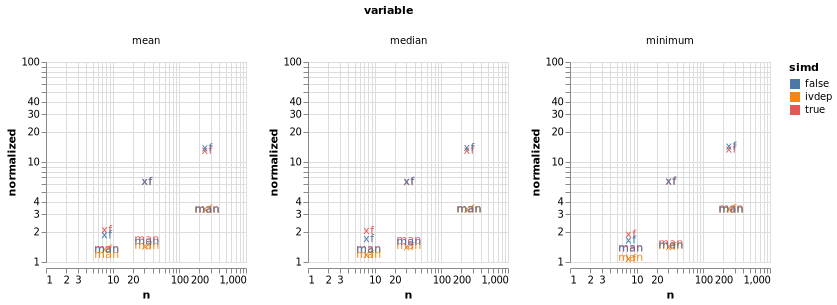
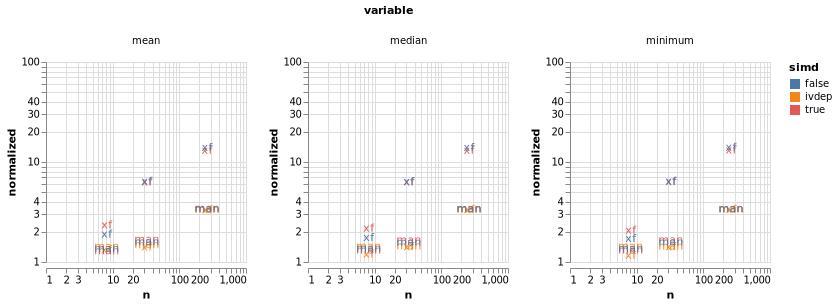
build based on b6bbf65

diff --git a/v0.2.2/search_index.js b/v0.2.2/search_index.js
@@ -1,3 +1,3 @@
 var documenterSearchIndex = {"docs":
-[{"location":"#TransducersBenchmarksReports.jl-1","page":"Home","title":"TransducersBenchmarksReports.jl","text":"","category":"section"},{"location":"#","page":"Home","title":"Home","text":"","category":"page"},{"location":"generated/results/#Benchmark-Report-for-*/home/travis/.julia/packages/Transducers/g26ar*-1","page":"Results","title":"Benchmark Report for /home/travis/.julia/packages/Transducers/g26ar","text":"","category":"section"},{"location":"generated/results/#Job-Properties-1","page":"Results","title":"Job Properties","text":"","category":"section"},{"location":"generated/results/#","page":"Results","title":"Results","text":"Time of benchmark: 13 Jul 2019 - 23:50\nPackage commit: non gi\nJulia commit: 55e36c\nJulia command flags: None\nEnvironment variables: OMP_NUM_THREADS => 1 JULIA_NUM_THREADS => 1","category":"page"},{"location":"generated/results/#Results-1","page":"Results","title":"Results","text":"","category":"section"},{"location":"generated/results/#","page":"Results","title":"Results","text":"Below is a table of this job's results, obtained by running the benchmarks. The values listed in the ID column have the structure [parent_group, child_group, ..., key], and can be used to index into the BaseBenchmarks suite to retrieve the corresponding benchmarks. The percentages accompanying time and memory values in the below table are noise tolerances. The \"true\" time/memory value for a given benchmark is expected to fall within this percentage of the reported value. An empty cell means that the value was zero.","category":"page"},{"location":"generated/results/#","page":"Results","title":"Results","text":"ID time GC time memory allocations\n[\"dot\", \"blas\"] 2.116 μs (5%)   \n[\"dot\", \"man\"] 2.171 μs (5%)   \n[\"dot\", \"rf\"] 2.149 μs (5%)   \n[\"dot\", \"xf\"] 2.078 μs (5%)   \n[\"filter_map_map!\", \"man\"] 67.598 μs (5%)   \n[\"filter_map_map!\", \"xf\"] 76.066 μs (5%)  144 bytes (1%) 8\n[\"filter_map_reduce\", \"man\"] 240.571 μs (5%)   \n[\"filter_map_reduce\", \"xf\"] 244.720 μs (5%)   \n[\"gemm\", \"linalg\", \"256\"] 1.136 ms (5%)   \n[\"gemm\", \"linalg\", \"32\"] 4.837 μs (5%)   \n[\"gemm\", \"linalg\", \"8\"] 347.090 ns (5%)   \n[\"gemm\", \"man\", \"false\", \"256\"] 3.820 ms (5%)   \n[\"gemm\", \"man\", \"false\", \"32\"] 7.098 μs (5%)   \n[\"gemm\", \"man\", \"false\", \"8\"] 479.046 ns (5%)   \n[\"gemm\", \"man\", \"ivdep\", \"256\"] 3.768 ms (5%)   \n[\"gemm\", \"man\", \"ivdep\", \"32\"] 6.980 μs (5%)   \n[\"gemm\", \"man\", \"ivdep\", \"8\"] 382.824 ns (5%)   \n[\"gemm\", \"man\", \"true\", \"256\"] 3.912 ms (5%)   \n[\"gemm\", \"man\", \"true\", \"32\"] 7.443 μs (5%)   \n[\"gemm\", \"man\", \"true\", \"8\"] 470.311 ns (5%)   \n[\"gemm\", \"xf\", \"false\", \"256\"] 16.201 ms (5%)  48 bytes (1%) 2\n[\"gemm\", \"xf\", \"false\", \"32\"] 30.893 μs (5%)  48 bytes (1%) 2\n[\"gemm\", \"xf\", \"false\", \"8\"] 568.780 ns (5%)  48 bytes (1%) 2\n[\"gemm\", \"xf\", \"ivdep\", \"256\"] 3.844 ms (5%)  48 bytes (1%) 2\n[\"gemm\", \"xf\", \"ivdep\", \"32\"] 6.796 μs (5%)  48 bytes (1%) 2\n[\"gemm\", \"xf\", \"ivdep\", \"8\"] 370.190 ns (5%)  48 bytes (1%) 2\n[\"gemm\", \"xf\", \"true\", \"256\"] 15.116 ms (5%)  48 bytes (1%) 2\n[\"gemm\", \"xf\", \"true\", \"32\"] 30.556 μs (5%)  48 bytes (1%) 2\n[\"gemm\", \"xf\", \"true\", \"8\"] 651.125 ns (5%)  48 bytes (1%) 2\n[\"missing_argmax\", \"man\"] 1.328 μs (5%)  32 bytes (1%) 1\n[\"missing_argmax\", \"rf\"] 1.466 μs (5%)  32 bytes (1%) 1\n[\"missing_argmax\", \"xf\"] 1.377 μs (5%)  32 bytes (1%) 1\n[\"missing_dot\", \"equiv\"] 1.573 μs (5%)  16 bytes (1%) 1\n[\"missing_dot\", \"man\"] 1.454 μs (5%)  16 bytes (1%) 1\n[\"missing_dot\", \"naive\"] 5.255 μs (5%)  16 bytes (1%) 1\n[\"missing_dot\", \"rf\"] 1.449 μs (5%)  16 bytes (1%) 1\n[\"missing_dot\", \"rf_nota\"] 1.611 μs (5%)  16 bytes (1%) 1\n[\"missing_dot\", \"xf\"] 216.335 μs (5%)  73.95 KiB (1%) 3858\n[\"missing_dot\", \"xf_nota\"] 223.498 μs (5%)  74.09 KiB (1%) 3864\n[\"partition_by\", \"man\"] 2.098 ms (5%)  352 bytes (1%) 4\n[\"partition_by\", \"xf\"] 2.022 ms (5%)  512 bytes (1%) 8","category":"page"},{"location":"generated/results/#Benchmark-Group-List-1","page":"Results","title":"Benchmark Group List","text":"","category":"section"},{"location":"generated/results/#","page":"Results","title":"Results","text":"Here's a list of all the benchmark groups executed by this job:","category":"page"},{"location":"generated/results/#","page":"Results","title":"Results","text":"[\"dot\"]\n[\"filter_map_map!\"]\n[\"filter_map_reduce\"]\n[\"gemm\", \"linalg\"]\n[\"gemm\", \"man\", \"false\"]\n[\"gemm\", \"man\", \"ivdep\"]\n[\"gemm\", \"man\", \"true\"]\n[\"gemm\", \"xf\", \"false\"]\n[\"gemm\", \"xf\", \"ivdep\"]\n[\"gemm\", \"xf\", \"true\"]\n[\"missing_argmax\"]\n[\"missing_dot\"]\n[\"partition_by\"]","category":"page"},{"location":"generated/results/#Julia-versioninfo-1","page":"Results","title":"Julia versioninfo","text":"","category":"section"},{"location":"generated/results/#","page":"Results","title":"Results","text":"Julia Version 1.1.1\nCommit 55e36cc308 (2019-05-16 04:10 UTC)\nPlatform Info:\n  OS: Linux (x86_64-pc-linux-gnu)\n      Ubuntu 16.04.6 LTS\n  uname: Linux 4.15.0-1028-gcp #29~16.04.1-Ubuntu SMP Tue Feb 12 16:31:10 UTC 2019 x86_64 x86_64\n  CPU: Intel(R) Xeon(R) CPU @ 2.30GHz: \n              speed         user         nice          sys         idle          irq\n       #1  2300 MHz      24920 s          0 s       1581 s      19570 s          0 s\n       #2  2300 MHz      20387 s          0 s       1475 s      24585 s          0 s\n       \n  Memory: 7.297847747802734 GB (5275.19140625 MB free)\n  Uptime: 473.0 sec\n  Load Avg:  1.0  0.861328125  0.46337890625\n  WORD_SIZE: 64\n  LIBM: libopenlibm\n  LLVM: libLLVM-6.0.1 (ORCJIT, haswell)","category":"page"},{"location":"gemm/#bench_gemm.jl-result-1","page":"GEMM","title":"bench_gemm.jl result","text":"","category":"section"},{"location":"gemm/#","page":"GEMM","title":"GEMM","text":"Base.include(@__MODULE__, \"../reporters/gemm.jl\")\nopen(io -> show(io, \"image/png\", plt), \"gemm.png\", \"w\")","category":"page"},{"location":"gemm/#","page":"GEMM","title":"GEMM","text":"(Image: )","category":"page"}]
+[{"location":"#TransducersBenchmarksReports.jl-1","page":"Home","title":"TransducersBenchmarksReports.jl","text":"","category":"section"},{"location":"#","page":"Home","title":"Home","text":"","category":"page"},{"location":"generated/results/#Benchmark-Report-for-*/home/travis/.julia/packages/Transducers/g26ar*-1","page":"Results","title":"Benchmark Report for /home/travis/.julia/packages/Transducers/g26ar","text":"","category":"section"},{"location":"generated/results/#Job-Properties-1","page":"Results","title":"Job Properties","text":"","category":"section"},{"location":"generated/results/#","page":"Results","title":"Results","text":"Time of benchmark: 14 Jul 2019 - 0:43\nPackage commit: non gi\nJulia commit: 55e36c\nJulia command flags: None\nEnvironment variables: OMP_NUM_THREADS => 1 JULIA_NUM_THREADS => 1","category":"page"},{"location":"generated/results/#Results-1","page":"Results","title":"Results","text":"","category":"section"},{"location":"generated/results/#","page":"Results","title":"Results","text":"Below is a table of this job's results, obtained by running the benchmarks. The values listed in the ID column have the structure [parent_group, child_group, ..., key], and can be used to index into the BaseBenchmarks suite to retrieve the corresponding benchmarks. The percentages accompanying time and memory values in the below table are noise tolerances. The \"true\" time/memory value for a given benchmark is expected to fall within this percentage of the reported value. An empty cell means that the value was zero.","category":"page"},{"location":"generated/results/#","page":"Results","title":"Results","text":"ID time GC time memory allocations\n[\"dot\", \"blas\"] 2.254 μs (5%)   \n[\"dot\", \"man\"] 2.192 μs (5%)   \n[\"dot\", \"rf\"] 2.135 μs (5%)   \n[\"dot\", \"xf\"] 2.155 μs (5%)   \n[\"filter_map_map!\", \"man\"] 76.388 μs (5%)   \n[\"filter_map_map!\", \"xf\"] 77.126 μs (5%)  144 bytes (1%) 8\n[\"filter_map_reduce\", \"man\"] 266.095 μs (5%)   \n[\"filter_map_reduce\", \"xf\"] 266.008 μs (5%)   \n[\"gemm\", \"linalg\", \"256\"] 1.177 ms (5%)   \n[\"gemm\", \"linalg\", \"32\"] 5.036 μs (5%)   \n[\"gemm\", \"linalg\", \"8\"] 353.608 ns (5%)   \n[\"gemm\", \"man\", \"false\", \"256\"] 3.977 ms (5%)   \n[\"gemm\", \"man\", \"false\", \"32\"] 7.893 μs (5%)   \n[\"gemm\", \"man\", \"false\", \"8\"] 479.015 ns (5%)   \n[\"gemm\", \"man\", \"ivdep\", \"256\"] 3.944 ms (5%)   \n[\"gemm\", \"man\", \"ivdep\", \"32\"] 7.176 μs (5%)   \n[\"gemm\", \"man\", \"ivdep\", \"8\"] 503.041 ns (5%)   \n[\"gemm\", \"man\", \"true\", \"256\"] 3.979 ms (5%)   \n[\"gemm\", \"man\", \"true\", \"32\"] 8.301 μs (5%)   \n[\"gemm\", \"man\", \"true\", \"8\"] 460.396 ns (5%)   \n[\"gemm\", \"xf\", \"false\", \"256\"] 16.345 ms (5%)  48 bytes (1%) 2\n[\"gemm\", \"xf\", \"false\", \"32\"] 31.998 μs (5%)  48 bytes (1%) 2\n[\"gemm\", \"xf\", \"false\", \"8\"] 601.270 ns (5%)  48 bytes (1%) 2\n[\"gemm\", \"xf\", \"ivdep\", \"256\"] 3.906 ms (5%)  48 bytes (1%) 2\n[\"gemm\", \"xf\", \"ivdep\", \"32\"] 7.068 μs (5%)  48 bytes (1%) 2\n[\"gemm\", \"xf\", \"ivdep\", \"8\"] 407.830 ns (5%)  48 bytes (1%) 2\n[\"gemm\", \"xf\", \"true\", \"256\"] 15.340 ms (5%)  48 bytes (1%) 2\n[\"gemm\", \"xf\", \"true\", \"32\"] 31.648 μs (5%)  48 bytes (1%) 2\n[\"gemm\", \"xf\", \"true\", \"8\"] 726.346 ns (5%)  48 bytes (1%) 2\n[\"missing_argmax\", \"man\"] 1.369 μs (5%)  32 bytes (1%) 1\n[\"missing_argmax\", \"rf\"] 1.539 μs (5%)  32 bytes (1%) 1\n[\"missing_argmax\", \"xf\"] 1.544 μs (5%)  32 bytes (1%) 1\n[\"missing_dot\", \"equiv\"] 1.645 μs (5%)  16 bytes (1%) 1\n[\"missing_dot\", \"man\"] 1.488 μs (5%)  16 bytes (1%) 1\n[\"missing_dot\", \"naive\"] 5.237 μs (5%)  16 bytes (1%) 1\n[\"missing_dot\", \"rf\"] 1.499 μs (5%)  16 bytes (1%) 1\n[\"missing_dot\", \"rf_nota\"] 1.599 μs (5%)  16 bytes (1%) 1\n[\"missing_dot\", \"xf\"] 228.533 μs (5%)  74.03 KiB (1%) 3864\n[\"missing_dot\", \"xf_nota\"] 231.077 μs (5%)  74.13 KiB (1%) 3866\n[\"partition_by\", \"man\"] 2.217 ms (5%)  352 bytes (1%) 4\n[\"partition_by\", \"xf\"] 2.056 ms (5%)  512 bytes (1%) 8","category":"page"},{"location":"generated/results/#Benchmark-Group-List-1","page":"Results","title":"Benchmark Group List","text":"","category":"section"},{"location":"generated/results/#","page":"Results","title":"Results","text":"Here's a list of all the benchmark groups executed by this job:","category":"page"},{"location":"generated/results/#","page":"Results","title":"Results","text":"[\"dot\"]\n[\"filter_map_map!\"]\n[\"filter_map_reduce\"]\n[\"gemm\", \"linalg\"]\n[\"gemm\", \"man\", \"false\"]\n[\"gemm\", \"man\", \"ivdep\"]\n[\"gemm\", \"man\", \"true\"]\n[\"gemm\", \"xf\", \"false\"]\n[\"gemm\", \"xf\", \"ivdep\"]\n[\"gemm\", \"xf\", \"true\"]\n[\"missing_argmax\"]\n[\"missing_dot\"]\n[\"partition_by\"]","category":"page"},{"location":"generated/results/#Julia-versioninfo-1","page":"Results","title":"Julia versioninfo","text":"","category":"section"},{"location":"generated/results/#","page":"Results","title":"Results","text":"Julia Version 1.1.1\nCommit 55e36cc308 (2019-05-16 04:10 UTC)\nPlatform Info:\n  OS: Linux (x86_64-pc-linux-gnu)\n      Ubuntu 16.04.6 LTS\n  uname: Linux 4.15.0-1028-gcp #29~16.04.1-Ubuntu SMP Tue Feb 12 16:31:10 UTC 2019 x86_64 x86_64\n  CPU: Intel(R) Xeon(R) CPU @ 2.30GHz: \n              speed         user         nice          sys         idle          irq\n       #1  2300 MHz      21790 s          0 s       1596 s      23232 s          0 s\n       #2  2300 MHz      23428 s          0 s       1283 s      22397 s          0 s\n       \n  Memory: 7.297840118408203 GB (5281.31640625 MB free)\n  Uptime: 478.0 sec\n  Load Avg:  1.02490234375  0.89404296875  0.48046875\n  WORD_SIZE: 64\n  LIBM: libopenlibm\n  LLVM: libLLVM-6.0.1 (ORCJIT, haswell)","category":"page"},{"location":"gemm/#bench_gemm.jl-result-1","page":"GEMM","title":"bench_gemm.jl result","text":"","category":"section"},{"location":"gemm/#","page":"GEMM","title":"GEMM","text":"Base.include(@__MODULE__, \"../reporters/gemm.jl\")\nopen(io -> show(io, \"image/png\", plt), \"gemm.png\", \"w\")","category":"page"},{"location":"gemm/#","page":"GEMM","title":"GEMM","text":"(Image: )","category":"page"},{"location":"gemm/#Transducers-vs-manual-implementation-1","page":"GEMM","title":"Transducers vs manual implementation","text":"","category":"section"},{"location":"gemm/#","page":"GEMM","title":"GEMM","text":"using BenchmarkTools\nusing PkgBenchmark: benchmarkgroup, export_markdown\nusing TransducersBenchmarksReports: loadresult\nusing Setfield: @set\nusing Markdown\n\nresults = loadresult()\ngroup = benchmarkgroup(results)[\"gemm\"]\nresults_xf = @set results.benchmarkgroup = group[\"xf\"]\nresults_man = @set results.benchmarkgroup = group[\"man\"]\n\nlet md = sprint(export_markdown, judge(results_xf, results_man))\n    md = replace(md, \":x:\" => \"❌\")\n    md = replace(md, \":white_check_mark:\" => \"✅\")\n    Markdown.parse(md)\nend","category":"page"}]
 }

diff --git a/v0.2.2/gemm/index.html b/v0.2.2/gemm/index.html
@@ -1,2 +1,34 @@
 <!DOCTYPE html>
-<html lang="en"><head><meta charset="UTF-8"/><meta name="viewport" content="width=device-width, initial-scale=1.0"/><title>GEMM · TransducersBenchmarksReports.jl</title><link href="https://cdnjs.cloudflare.com/ajax/libs/normalize/4.2.0/normalize.min.css" rel="stylesheet" type="text/css"/><link href="https://fonts.googleapis.com/css?family=Lato|Roboto+Mono" rel="stylesheet" type="text/css"/><link href="https://cdnjs.cloudflare.com/ajax/libs/font-awesome/4.6.3/css/font-awesome.min.css" rel="stylesheet" type="text/css"/><link href="https://cdnjs.cloudflare.com/ajax/libs/highlight.js/9.12.0/styles/default.min.css" rel="stylesheet" type="text/css"/><script>documenterBaseURL=".."</script><script src="https://cdnjs.cloudflare.com/ajax/libs/require.js/2.2.0/require.min.js" data-main="../assets/documenter.js"></script><script src="../siteinfo.js"></script><script src="../../versions.js"></script><link href="../assets/documenter.css" rel="stylesheet" type="text/css"/></head><body><nav class="toc"><h1>TransducersBenchmarksReports.jl</h1><select id="version-selector" onChange="window.location.href=this.value" style="visibility: hidden"></select><form class="search" id="search-form" action="../search/"><input id="search-query" name="q" type="text" placeholder="Search docs"/></form><ul><li><a class="toctext" href="../">Home</a></li><li><a class="toctext" href="../generated/results/">Results</a></li><li class="current"><a class="toctext" href>GEMM</a><ul class="internal"></ul></li></ul></nav><article id="docs"><header><nav><ul><li><a href>GEMM</a></li></ul><a class="edit-page" href="https://github.com/tkf/TransducersBenchmarksReports.jl/blob/master/docs/src/gemm.md#L"><span class="fa"></span> Edit on GitHub</a></nav><hr/><div id="topbar"><span>GEMM</span><a class="fa fa-bars" href="#"></a></div></header><h1><a class="nav-anchor" id="bench_gemm.jl-result-1" href="#bench_gemm.jl-result-1"><code>bench_gemm.jl</code> result</a></h1><p><img src="/gemm.png" alt/></p><footer><hr/><a class="previous" href="../generated/results/"><span class="direction">Previous</span><span class="title">Results</span></a></footer></article></body></html>
+<html lang="en"><head><meta charset="UTF-8"/><meta name="viewport" content="width=device-width, initial-scale=1.0"/><title>GEMM · TransducersBenchmarksReports.jl</title><link href="https://cdnjs.cloudflare.com/ajax/libs/normalize/4.2.0/normalize.min.css" rel="stylesheet" type="text/css"/><link href="https://fonts.googleapis.com/css?family=Lato|Roboto+Mono" rel="stylesheet" type="text/css"/><link href="https://cdnjs.cloudflare.com/ajax/libs/font-awesome/4.6.3/css/font-awesome.min.css" rel="stylesheet" type="text/css"/><link href="https://cdnjs.cloudflare.com/ajax/libs/highlight.js/9.12.0/styles/default.min.css" rel="stylesheet" type="text/css"/><script>documenterBaseURL=".."</script><script src="https://cdnjs.cloudflare.com/ajax/libs/require.js/2.2.0/require.min.js" data-main="../assets/documenter.js"></script><script src="../siteinfo.js"></script><script src="../../versions.js"></script><link href="../assets/documenter.css" rel="stylesheet" type="text/css"/></head><body><nav class="toc"><h1>TransducersBenchmarksReports.jl</h1><select id="version-selector" onChange="window.location.href=this.value" style="visibility: hidden"></select><form class="search" id="search-form" action="../search/"><input id="search-query" name="q" type="text" placeholder="Search docs"/></form><ul><li><a class="toctext" href="../">Home</a></li><li><a class="toctext" href="../generated/results/">Results</a></li><li class="current"><a class="toctext" href>GEMM</a><ul class="internal"><li><a class="toctext" href="#Transducers-vs-manual-implementation-1">Transducers vs manual implementation</a></li></ul></li></ul></nav><article id="docs"><header><nav><ul><li><a href>GEMM</a></li></ul><a class="edit-page" href="https://github.com/tkf/TransducersBenchmarksReports.jl/blob/master/docs/src/gemm.md#L"><span class="fa"></span> Edit on GitHub</a></nav><hr/><div id="topbar"><span>GEMM</span><a class="fa fa-bars" href="#"></a></div></header><h1><a class="nav-anchor" id="bench_gemm.jl-result-1" href="#bench_gemm.jl-result-1"><code>bench_gemm.jl</code> result</a></h1><p><img src="../gemm.png" alt/></p><h2><a class="nav-anchor" id="Transducers-vs-manual-implementation-1" href="#Transducers-vs-manual-implementation-1">Transducers vs manual implementation</a></h2><div><h1>Benchmark Report for <em>/home/travis/.julia/packages/Transducers/g26ar</em></h1><h2>Job Properties</h2><ul><li>Time of benchmarks:<ul><li>Target: 14 Jul 2019 - 00:43</li><li>Baseline: 14 Jul 2019 - 00:43</li></ul></li><li>Package commits:<ul><li>Target: non gi</li><li>Baseline: non gi</li></ul></li><li>Julia commits:<ul><li>Target: 55e36c</li><li>Baseline: 55e36c</li></ul></li><li>Julia command flags:<ul><li>Target: None</li><li>Baseline: None</li></ul></li><li>Environment variables:<ul><li>Target: <code>OMP_NUM_THREADS =&gt; 1</code> <code>JULIA_NUM_THREADS =&gt; 1</code></li><li>Baseline: <code>OMP_NUM_THREADS =&gt; 1</code> <code>JULIA_NUM_THREADS =&gt; 1</code></li></ul></li></ul><h2>Results</h2><p>A ratio greater than <code>1.0</code> denotes a possible regression (marked with ❌), while a ratio less than <code>1.0</code> denotes a possible improvement (marked with ✅). Only significant results - results that indicate possible regressions or improvements - are shown below (thus, an empty table means that all benchmark results remained invariant between builds).</p><table><tr><th style="text-align: right">ID</th><th style="text-align: right">time ratio</th><th style="text-align: right">memory ratio</th></tr><tr><td style="text-align: right"><code>[&quot;false&quot;, &quot;256&quot;]</code></td><td style="text-align: right">4.11 (5%) ❌</td><td style="text-align: right">Inf (1%) ❌</td></tr><tr><td style="text-align: right"><code>[&quot;false&quot;, &quot;32&quot;]</code></td><td style="text-align: right">4.05 (5%) ❌</td><td style="text-align: right">Inf (1%) ❌</td></tr><tr><td style="text-align: right"><code>[&quot;false&quot;, &quot;8&quot;]</code></td><td style="text-align: right">1.26 (5%) ❌</td><td style="text-align: right">Inf (1%) ❌</td></tr><tr><td style="text-align: right"><code>[&quot;ivdep&quot;, &quot;256&quot;]</code></td><td style="text-align: right">0.99 (5%)</td><td style="text-align: right">Inf (1%) ❌</td></tr><tr><td style="text-align: right"><code>[&quot;ivdep&quot;, &quot;32&quot;]</code></td><td style="text-align: right">0.99 (5%)</td><td style="text-align: right">Inf (1%) ❌</td></tr><tr><td style="text-align: right"><code>[&quot;ivdep&quot;, &quot;8&quot;]</code></td><td style="text-align: right">0.81 (5%) ✅</td><td style="text-align: right">Inf (1%) ❌</td></tr><tr><td style="text-align: right"><code>[&quot;true&quot;, &quot;256&quot;]</code></td><td style="text-align: right">3.85 (5%) ❌</td><td style="text-align: right">Inf (1%) ❌</td></tr><tr><td style="text-align: right"><code>[&quot;true&quot;, &quot;32&quot;]</code></td><td style="text-align: right">3.81 (5%) ❌</td><td style="text-align: right">Inf (1%) ❌</td></tr><tr><td style="text-align: right"><code>[&quot;true&quot;, &quot;8&quot;]</code></td><td style="text-align: right">1.58 (5%) ❌</td><td style="text-align: right">Inf (1%) ❌</td></tr></table><h2>Benchmark Group List</h2><p>Here&#39;s a list of all the benchmark groups executed by this job:</p><ul><li><code>[&quot;false&quot;]</code></li><li><code>[&quot;ivdep&quot;]</code></li><li><code>[&quot;true&quot;]</code></li></ul><h2>Julia versioninfo</h2><h3>Target</h3><pre><code class="language-none">Julia Version 1.1.1
+Commit 55e36cc308 (2019-05-16 04:10 UTC)
+Platform Info:
+  OS: Linux (x86_64-pc-linux-gnu)
+      Ubuntu 16.04.6 LTS
+  uname: Linux 4.15.0-1028-gcp #29~16.04.1-Ubuntu SMP Tue Feb 12 16:31:10 UTC 2019 x86_64 x86_64
+  CPU: Intel(R) Xeon(R) CPU @ 2.30GHz: 
+              speed         user         nice          sys         idle          irq
+       #1  2300 MHz      21790 s          0 s       1596 s      23232 s          0 s
+       #2  2300 MHz      23428 s          0 s       1283 s      22397 s          0 s
+       
+  Memory: 7.297840118408203 GB (5281.31640625 MB free)
+  Uptime: 478.0 sec
+  Load Avg:  1.02490234375  0.89404296875  0.48046875
+  WORD_SIZE: 64
+  LIBM: libopenlibm
+  LLVM: libLLVM-6.0.1 (ORCJIT, haswell)</code></pre><h3>Baseline</h3><pre><code class="language-none">Julia Version 1.1.1
+Commit 55e36cc308 (2019-05-16 04:10 UTC)
+Platform Info:
+  OS: Linux (x86_64-pc-linux-gnu)
+      Ubuntu 16.04.6 LTS
+  uname: Linux 4.15.0-1028-gcp #29~16.04.1-Ubuntu SMP Tue Feb 12 16:31:10 UTC 2019 x86_64 x86_64
+  CPU: Intel(R) Xeon(R) CPU @ 2.30GHz: 
+              speed         user         nice          sys         idle          irq
+       #1  2300 MHz      21790 s          0 s       1596 s      23232 s          0 s
+       #2  2300 MHz      23428 s          0 s       1283 s      22397 s          0 s
+       
+  Memory: 7.297840118408203 GB (5281.31640625 MB free)
+  Uptime: 478.0 sec
+  Load Avg:  1.02490234375  0.89404296875  0.48046875
+  WORD_SIZE: 64
+  LIBM: libopenlibm
+  LLVM: libLLVM-6.0.1 (ORCJIT, haswell)</code></pre></div><footer><hr/><a class="previous" href="../generated/results/"><span class="direction">Previous</span><span class="title">Results</span></a></footer></article></body></html>

diff --git a/v0.2.2/index.html b/v0.2.2/index.html
@@ -1,2 +1,2 @@
 <!DOCTYPE html>
-<html lang="en"><head><meta charset="UTF-8"/><meta name="viewport" content="width=device-width, initial-scale=1.0"/><title>Home · TransducersBenchmarksReports.jl</title><link href="https://cdnjs.cloudflare.com/ajax/libs/normalize/4.2.0/normalize.min.css" rel="stylesheet" type="text/css"/><link href="https://fonts.googleapis.com/css?family=Lato|Roboto+Mono" rel="stylesheet" type="text/css"/><link href="https://cdnjs.cloudflare.com/ajax/libs/font-awesome/4.6.3/css/font-awesome.min.css" rel="stylesheet" type="text/css"/><link href="https://cdnjs.cloudflare.com/ajax/libs/highlight.js/9.12.0/styles/default.min.css" rel="stylesheet" type="text/css"/><script>documenterBaseURL="."</script><script src="https://cdnjs.cloudflare.com/ajax/libs/require.js/2.2.0/require.min.js" data-main="assets/documenter.js"></script><script src="siteinfo.js"></script><script src="../versions.js"></script><link href="assets/documenter.css" rel="stylesheet" type="text/css"/></head><body><nav class="toc"><h1>TransducersBenchmarksReports.jl</h1><select id="version-selector" onChange="window.location.href=this.value" style="visibility: hidden"></select><form class="search" id="search-form" action="search/"><input id="search-query" name="q" type="text" placeholder="Search docs"/></form><ul><li class="current"><a class="toctext" href>Home</a><ul class="internal"></ul></li><li><a class="toctext" href="generated/results/">Results</a></li><li><a class="toctext" href="gemm/">GEMM</a></li></ul></nav><article id="docs"><header><nav><ul><li><a href>Home</a></li></ul><a class="edit-page" href="https://github.com/tkf/TransducersBenchmarksReports.jl/blob/master/docs/src/index.md#L"><span class="fa"></span> Edit on GitHub</a></nav><hr/><div id="topbar"><span>Home</span><a class="fa fa-bars" href="#"></a></div></header><h1><a class="nav-anchor" id="TransducersBenchmarksReports.jl-1" href="#TransducersBenchmarksReports.jl-1">TransducersBenchmarksReports.jl</a></h1><ul><li><a href="gemm/#bench_gemm.jl-result-1"><code>bench_gemm.jl</code> result</a></li><li><a href="generated/results/#Benchmark-Report-for-*/home/travis/.julia/packages/Transducers/g26ar*-1">Benchmark Report for <em>/home/travis/.julia/packages/Transducers/g26ar</em></a></li><ul><li><a href="generated/results/#Job-Properties-1">Job Properties</a></li><li><a href="generated/results/#Results-1">Results</a></li><li><a href="generated/results/#Benchmark-Group-List-1">Benchmark Group List</a></li><li><a href="generated/results/#Julia-versioninfo-1">Julia versioninfo</a></li></ul><li><a href="#TransducersBenchmarksReports.jl-1">TransducersBenchmarksReports.jl</a></li></ul><footer><hr/><a class="next" href="generated/results/"><span class="direction">Next</span><span class="title">Results</span></a></footer></article></body></html>
+<html lang="en"><head><meta charset="UTF-8"/><meta name="viewport" content="width=device-width, initial-scale=1.0"/><title>Home · TransducersBenchmarksReports.jl</title><link href="https://cdnjs.cloudflare.com/ajax/libs/normalize/4.2.0/normalize.min.css" rel="stylesheet" type="text/css"/><link href="https://fonts.googleapis.com/css?family=Lato|Roboto+Mono" rel="stylesheet" type="text/css"/><link href="https://cdnjs.cloudflare.com/ajax/libs/font-awesome/4.6.3/css/font-awesome.min.css" rel="stylesheet" type="text/css"/><link href="https://cdnjs.cloudflare.com/ajax/libs/highlight.js/9.12.0/styles/default.min.css" rel="stylesheet" type="text/css"/><script>documenterBaseURL="."</script><script src="https://cdnjs.cloudflare.com/ajax/libs/require.js/2.2.0/require.min.js" data-main="assets/documenter.js"></script><script src="siteinfo.js"></script><script src="../versions.js"></script><link href="assets/documenter.css" rel="stylesheet" type="text/css"/></head><body><nav class="toc"><h1>TransducersBenchmarksReports.jl</h1><select id="version-selector" onChange="window.location.href=this.value" style="visibility: hidden"></select><form class="search" id="search-form" action="search/"><input id="search-query" name="q" type="text" placeholder="Search docs"/></form><ul><li class="current"><a class="toctext" href>Home</a><ul class="internal"></ul></li><li><a class="toctext" href="generated/results/">Results</a></li><li><a class="toctext" href="gemm/">GEMM</a></li></ul></nav><article id="docs"><header><nav><ul><li><a href>Home</a></li></ul><a class="edit-page" href="https://github.com/tkf/TransducersBenchmarksReports.jl/blob/master/docs/src/index.md#L"><span class="fa"></span> Edit on GitHub</a></nav><hr/><div id="topbar"><span>Home</span><a class="fa fa-bars" href="#"></a></div></header><h1><a class="nav-anchor" id="TransducersBenchmarksReports.jl-1" href="#TransducersBenchmarksReports.jl-1">TransducersBenchmarksReports.jl</a></h1><ul><li><a href="gemm/#bench_gemm.jl-result-1"><code>bench_gemm.jl</code> result</a></li><ul><li><a href="gemm/#Transducers-vs-manual-implementation-1">Transducers vs manual implementation</a></li></ul><li><a href="generated/results/#Benchmark-Report-for-*/home/travis/.julia/packages/Transducers/g26ar*-1">Benchmark Report for <em>/home/travis/.julia/packages/Transducers/g26ar</em></a></li><ul><li><a href="generated/results/#Job-Properties-1">Job Properties</a></li><li><a href="generated/results/#Results-1">Results</a></li><li><a href="generated/results/#Benchmark-Group-List-1">Benchmark Group List</a></li><li><a href="generated/results/#Julia-versioninfo-1">Julia versioninfo</a></li></ul><li><a href="#TransducersBenchmarksReports.jl-1">TransducersBenchmarksReports.jl</a></li></ul><footer><hr/><a class="next" href="generated/results/"><span class="direction">Next</span><span class="title">Results</span></a></footer></article></body></html>
